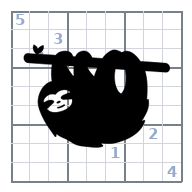
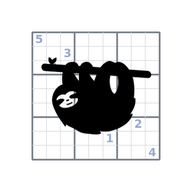
small tweaks to the sudoku PWA

Changed region(s): [[0.0312, 0.0312, 0.9688, 0.9688]]

diff --git a/data/sudoku/sw.js b/data/sudoku/sw.js
@@ -1,4 +1,4 @@
-var CACHE = 'sudoku-v7';
+var CACHE = 'sudoku-v8';
 
 // Must cache for the game to work offline at all.
 var CORE = [

diff --git a/generate.py b/generate.py
@@ -97,7 +97,7 @@ def create_sudoku_page(base_html):
         game_html = f.read()
 
     html_str = base_html.format(
-        title="Sudoku",
+        title="Sloth Sudoku",
         subtitle="",
         content=game_html,
         extra_headers='<link rel="manifest" href="manifest.webmanifest">',
